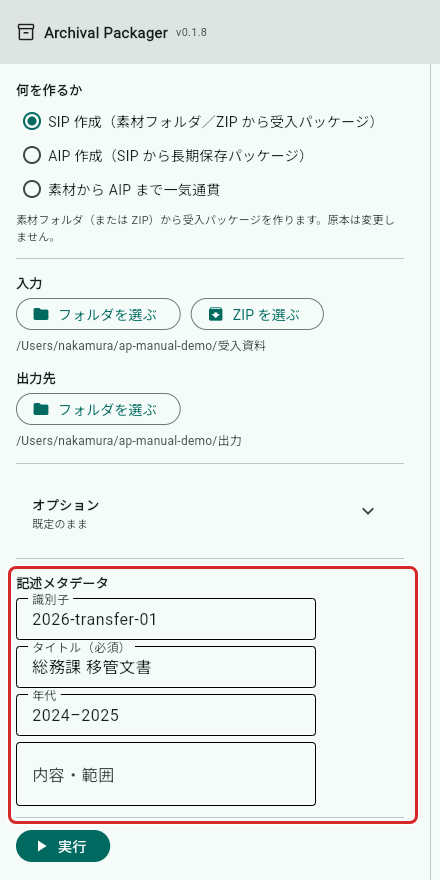
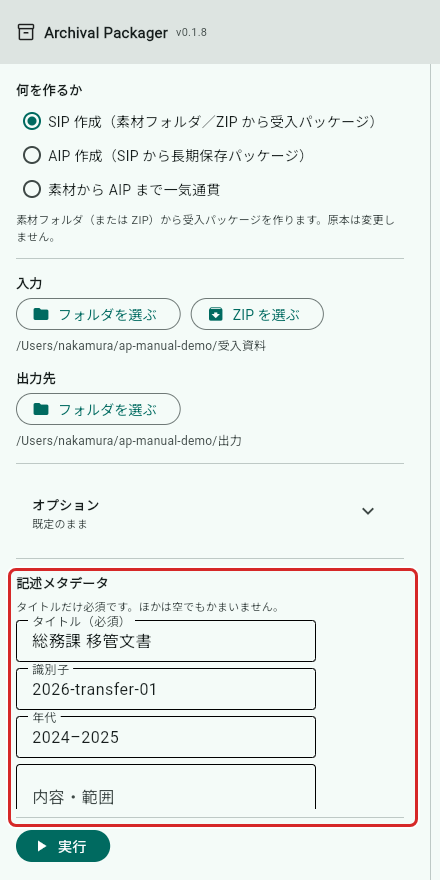
Put the required title first, and record the missing SIP METS gap (#52)
* Put the required title first in the descriptive metadata form

The title was the second field, so people started from the identifier and
missed the "(required)" in its label. The title now comes first, a line
under the heading says only the title is required, and while it is empty a
red note under the field says the package cannot be created without it.
The manual's field table and screenshots follow the new order.

* Record the missing SIP METS as a known gap with Archivematica

Archivematica keeps the transfer METS in the AIP under
submissionDocumentation/transfer-*/METS.xml. We write premis.xml (PREMIS
only) and copy it into the AIP, but no SIP METS. The comparison had only
checked where submission documentation lives, not whether a METS is
there. Add it to the AIP structure table and as gap 12, and pin it with a
test so that the gap list fails when it is fixed (#49).

Changed region(s): [[0.0295, 0.6443, 0.9455, 0.9511]]

diff --git a/src/archival_packager/ui/app.py b/src/archival_packager/ui/app.py
@@ -188,9 +188,17 @@ def main(page: ft.Page) -> None:
     # 記述メタデータ
     # ------------------------------------------------------------------
 
-    identifier = ft.TextField(label=t("識別子"), hint_text=t("例: 2026-移管-総務課"), dense=True)
+    # **必須のタイトルを先頭に置く。** 2 番目にあると、ラベルの「（必須）」を
+    # 読み落として識別子から埋め始め、押せない理由を探すことになる（2026-10-27 の指摘）。
+    # 空のあいだは欄の下に赤字で理由を出す（refresh_run_enabled）。
     title = ft.TextField(
-        label=t("タイトル（必須）"), hint_text=t("例: 総務課 一般文書"), dense=True
+        label=t("タイトル（必須）"), hint_text=t("例: 総務課 一般文書"), dense=True,
+        helper_style=ft.TextStyle(color=ft.Colors.ERROR),
+    )
+    identifier = ft.TextField(label=t("識別子"), hint_text=t("例: 2026-移管-総務課"), dense=True)
+    metadata_note = ft.Text(
+        t("タイトルだけ必須です。ほかは空でもかまいません。"),
+        size=11, color=ft.Colors.ON_SURFACE_VARIANT,
     )
     scope_note = ft.TextField(
         label=t("内容・範囲"), multiline=True, min_lines=2, max_lines=4, dense=True
@@ -326,8 +334,10 @@ def main(page: ft.Page) -> None:
             missing.append(t("素材フォルダ") if mode.value != MODE_AIP else t("SIP フォルダ"))
         if state.output_parent is None:
             missing.append(t("出力先"))
-        if needs_title and not (title.value or "").strip():
+        title_missing = needs_title and not (title.value or "").strip()
+        if title_missing:
             missing.append(t("タイトル"))
+        title.helper = t("空のままでは作成できません") if title_missing else None
 
         input_problem, output_problem = selection_problems()
         input_note.value = input_problem
@@ -766,7 +776,7 @@ def main(page: ft.Page) -> None:
     )
 
     metadata_section = section(
-        t("記述メタデータ"), identifier, title, date_note, scope_note, archivist
+        t("記述メタデータ"), metadata_note, title, identifier, date_note, scope_note, archivist
     )
     virus_section = section(t("ウイルス定義データベース"), virus_db_status, virus_db_button)
 

diff --git a/tests/test_interoperability.py b/tests/test_interoperability.py
@@ -616,6 +616,18 @@ class TestArchivematicaAipShape:
         assert subdoc.is_dir()
         assert (subdoc / "description.csv").is_file()
 
+    def test_no_transfer_mets_in_submission_documentation_yet(self, aip):
+        """Gap 12 を固定する。Archivematica の AIP は受け入れ時の METS を
+        submissionDocumentation/transfer-*/METS.xml に残すが、こちらは premis.xml だけ。
+
+        「提出書類の置き場所が一致」だけを見て、中に METS が無いことを見落としていた
+        （2026-10-27 の打ち合わせで指摘を受けた）。SIP の METS を書くようにしたら
+        ここが落ちる。そのときは KNOWN_GAPS と docs/interoperability.md を直す（#49）。
+        """
+        subdoc = aip.aip_path / "data" / "objects" / "submissionDocumentation"
+        assert not list(subdoc.rglob("METS*.xml"))
+        assert (subdoc / "premis.xml").is_file()
+
     def test_readme_html_sits_at_the_data_root(self, aip):
         """Archivematica の AIP と同じく data/README.html を置くこと。
 
@@ -742,6 +754,12 @@ KNOWN_GAPS: tuple[Gap, ...] = (
         impact="なし。BagIt 仕様上どちらも適法。直さない",
     ),
     Gap(
+        area="AIP: 受け入れ時の METS",
+        ours="SIP は METS を書かず premis.xml（PREMIS のみ）。AIP はそれを複写",
+        theirs="submissionDocumentation/transfer-<名前>-<uuid>/METS.xml を AIP に残す",
+        impact="小〜中。記録の中身は AIP の METS にもある。同じ形を前提に読む道具からは見つからない（#49）",
+    ),
+    Gap(
         area="AtoM: culture 列",
         ours="出していない",
         theirs="記述そのものの言語（ja / en …）",
@@ -758,9 +776,10 @@ def test_known_gap_count_is_frozen():
 
     2026-09-12: 10 件 → 7 件を是正 → 新たに 1 件（culture）を記録して 4 件。
     2026-09-12: data/README.html（Gap 9）を是正して 3 件。
+    2026-10-27: 受け入れ時の METS（Gap 12）を記録して 4 件。
     """
-    assert len(KNOWN_GAPS) == 3
-    assert len({g.area for g in KNOWN_GAPS}) == 3
+    assert len(KNOWN_GAPS) == 4
+    assert len({g.area for g in KNOWN_GAPS}) == 4
 
 
 def test_gap_report_is_printable(capsys):

diff --git a/tests/test_ui_wiring.py b/tests/test_ui_wiring.py
@@ -379,6 +379,14 @@ class TestFormFollowsTheSelectedMode:
         body = source.split("def apply_mode(")[1].split("mode.on_change")[0]
         assert "metadata_section.visible = makes_sip" in body
 
+    def test_required_title_comes_first(self):
+        """必須のタイトルが 2 番目にあると、識別子から埋め始めて（必須）を読み落とす。
+        先頭に置き、空のあいだは欄の下に理由を出す。"""
+        source = inspect.getsource(ui_app.main)
+        body = source.split("metadata_section = section(")[1].split("virus_section")[0]
+        assert "metadata_note, title, identifier," in body
+        assert "title.helper = " in source
+
     def test_update_is_guarded_before_mount(self):
         """初回は page.add より前に呼ばれる。載る前に update すると落ちる。
 

diff --git a/src/archival_packager/locales/en.py b/src/archival_packager/locales/en.py
@@ -89,6 +89,9 @@ TEXTS: dict[str, str] = {
     "識別子": "Identifier",
     "例: 2026-移管-総務課": "e.g. 2026-transfer-general-affairs",
     "タイトル（必須）": "Title (required)",
+    "タイトルだけ必須です。ほかは空でもかまいません。":
+        "Only the title is required. The other fields may be left empty.",
+    "空のままでは作成できません": "Enter a title to create the package",
     "例: 総務課 一般文書": "e.g. General Affairs Division, general records",
     "内容・範囲": "Scope and content",
     "年代": "Dates",

diff --git a/scripts/docs/capture_manual.py b/scripts/docs/capture_manual.py
@@ -265,7 +265,7 @@ def story(d: Driver, cam: Camera, out: Path) -> None:
            "総務課 移管文書" if d.lang == "ja" else "Records transfer, General Affairs")
     d.type("年代", "2024–2025")
     blur()
-    cam.shot("metadata", band(d.find(None, "識別子"), d.find(None, "内容・範囲"), top=26),
+    cam.shot("metadata", band(d.find(None, "タイトル（必須）"), d.find(None, "内容・範囲"), top=46),
              clip=left_col)
 
     # ---- オプション ---------------------------------------------------

diff --git a/docs/manual/index.md b/docs/manual/index.md
@@ -111,8 +111,8 @@ SIP（受入パッケージ）は、受け入れた資料を、**そのままの
 
 | 欄 | 入れるもの |
 | --- | --- |
-| 識別子 | この受け入れを区別する名前（例: `2026-移管-総務課`）。**パッケージのフォルダ名**になります |
 | タイトル（必須） | 資料のまとまりの名前。**これだけは必ず入れます** |
+| 識別子 | この受け入れを区別する名前（例: `2026-移管-総務課`）。**パッケージのフォルダ名**になります |
 | 年代 | 資料の年代（例: `2024–2025`） |
 | 内容・範囲 | どんな資料か、どこからどこまでか |
 | 担当者名 | 作業をした人の名前。AIP の処理の記録に、作業者として残ります |

diff --git a/docs/manual/en.md b/docs/manual/en.md
@@ -106,8 +106,8 @@ Enter information about the material. It is kept in the package as the accession
 
 | Field | What to enter |
 | --- | --- |
-| Identifier | A name that tells this accession apart (for example `2026-transfer-01`). **It becomes the package's folder name** |
 | Title (required) | A name for the body of material. **This is the only field you must fill in** |
+| Identifier | A name that tells this accession apart (for example `2026-transfer-01`). **It becomes the package's folder name** |
 | Dates | The period the material covers (for example `2024–2025`) |
 | Scope and content | What the material is, and what it covers |
 | Archivist | Who did the work. It is recorded in the AIP's preservation events as the person responsible |
